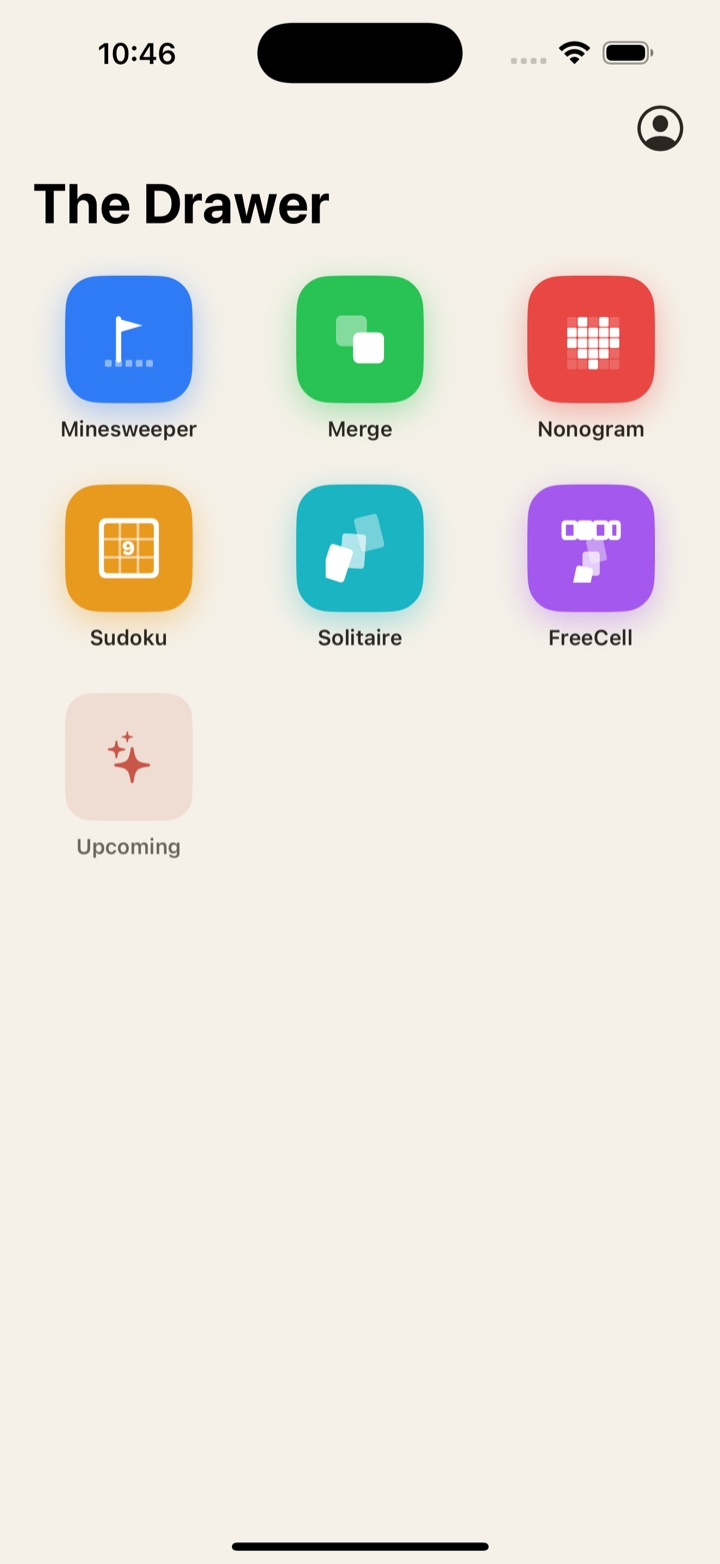
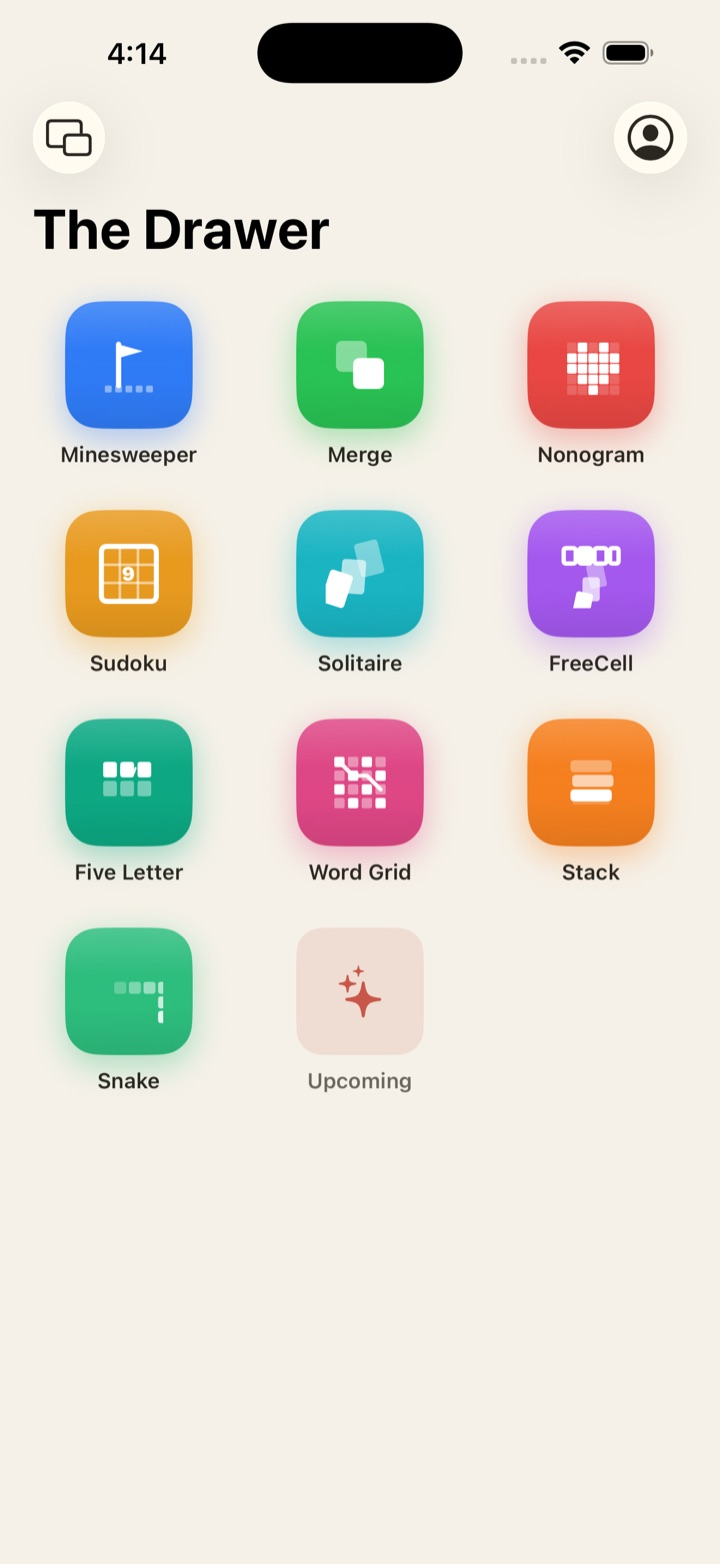
chore: retire no-ads-ever claims, new ten-game home screenshot
Ads stance shift: keep present-tense no-ads copy, drop ever/permanent/never framing across index, about FAQ (visible + JSON-LD), press tagline, llms.txt. New home screenshot captured on iPhone 17 Pro Max shows all ten games plus the Upcoming tile; capture convention (17 Pro Max, 1320x2868, ASC 6.9 slot) recorded in CLAUDE.md and AGENTS.md.

diff --git a/index.html b/index.html
@@ -95,7 +95,7 @@
             <h1 class="h1">
               Play games while<br />
               watching a video.<br />
-              No ads. Ever.
+              No ads.
             </h1>
 
             <p class="sub">
@@ -118,7 +118,7 @@
 
           <div class="hero-phone">
             <div class="phone-frame">
-              <img src="assets/images/screenshots/home-game-drawer.jpg" alt="GameDrawer home screen showing Minesweeper, Merge, Nonogram, Sudoku, FreeCell, and Solitaire on the Classic theme" />
+              <img src="assets/images/screenshots/home-game-drawer.jpg" alt="GameDrawer home screen showing ten game tiles - Minesweeper, Merge, Nonogram, Sudoku, Solitaire, FreeCell, Five Letter, Word Grid, Stack, and Snake - plus an Upcoming tile, on the Classic theme" />
             </div>
           </div>
         </div>
@@ -163,7 +163,7 @@
           </article>
 
           <article class="feature">
-            <p class="feature-num">04 / No ads, ever</p>
+            <p class="feature-num">04 / No ads</p>
             <span class="feature-icon" aria-hidden="true">
               <svg viewBox="0 0 24 24" fill="none" stroke="currentColor" stroke-width="1.75" stroke-linecap="round" stroke-linejoin="round">
                 <circle cx="12" cy="12" r="9" />
@@ -171,7 +171,7 @@
               </svg>
             </span>
             <h3>No coins. No energy. No popups.</h3>
-            <p>Permanent. No banner ads, no forced video ads, no fake currency, no subscription pestering, no required onboarding. Open the app, play.</p>
+            <p>No banner ads, no forced video ads, no fake currency, no subscription pestering, no required onboarding. Open the app, play.</p>
           </article>
 
           <article class="feature">
@@ -268,7 +268,7 @@
           </svg>
         </button>
         <div class="carousel-track">
-          <img src="assets/images/screenshots/home-game-drawer.jpg" alt="The Drawer home screen showing all six games on the Classic theme" loading="lazy" />
+          <img src="assets/images/screenshots/home-game-drawer.jpg" alt="The Drawer home screen showing all ten games plus an Upcoming tile on the Classic theme" loading="lazy" />
           <img src="assets/images/screenshots/gameplay-minesweeper-medium.jpg" alt="Minesweeper Medium mid-game with flagged mines and revealed numbers on the Classic theme" loading="lazy" />
           <img src="assets/images/screenshots/gameplay-merge.jpg" alt="Merge mid-game with score 1964 and tiles from 2 up to 256 on the Classic theme" loading="lazy" />
           <img src="assets/images/screenshots/gameplay-nonogram-large.jpg" alt="Nonogram 20 by 20 bunny puzzle mid-solve on the Classic theme" loading="lazy" />

diff --git a/about.html b/about.html
@@ -75,7 +75,7 @@
         "name": "Is GameDrawer really free?",
         "acceptedAnswer": {
           "@type": "Answer",
-          "text": "Yes. Version 1.0 is free with no in-app purchases, no subscriptions, and no ads. Future paid options would be one-time unlocks or theme packs - never ads or coins."
+          "text": "Yes. The app is free with no in-app purchases, no subscriptions, and no ads. Future paid options would be one-time unlocks or theme packs - not coins or energy systems."
         }
       },
       {
@@ -83,7 +83,7 @@
         "name": "Will you add ads later?",
         "acceptedAnswer": {
           "@type": "Answer",
-          "text": "No. No ads, no fake currency, no energy systems, and no aggressive subscriptions. That's a permanent constraint, not a launch promise."
+          "text": "There are no ads in GameDrawer today. What stays off the table: fake currency, energy systems, and aggressive subscriptions."
         }
       },
       {
@@ -216,10 +216,10 @@
       <h2>Frequently asked questions</h2>
 
       <h3>Is GameDrawer really free?</h3>
-      <p>Yes. The app is free with no in-app purchases, no subscriptions, and no ads. If a paid option ever lands, it would be a one-time purchase for the full game suite, paid theme packs, or a tip jar - <em>never</em> ads, coins, or aggressive subscriptions.</p>
+      <p>Yes. The app is free with no in-app purchases, no subscriptions, and no ads. If a paid option ever lands, it would be a one-time purchase for the full game suite, paid theme packs, or a tip jar - <em>never</em> coins or aggressive subscriptions.</p>
 
       <h3>Will you add ads later?</h3>
-      <p>No. That's a permanent constraint, not a launch promise.</p>
+      <p>There are no ads in GameDrawer today. What stays off the table: fake currency, energy systems, and aggressive subscriptions.</p>
 
       <h3>Do I need an account?</h3>
       <p>No. GameDrawer is local-first by default. Sign in with Apple is optional and only enables CloudKit sync across your own devices.</p>

diff --git a/press.html b/press.html
@@ -72,7 +72,7 @@
       <p>GameDrawer is the only multi-game puzzle suite that reflows its layouts for Picture-in-Picture - ten classic logic, word, and arcade games (Minesweeper, Merge, Nonogram, Sudoku, FreeCell, Solitaire, Five Letter, Word Grid, Stack, Snake), six PiP positions, zero ads.</p>
 
       <h2>Tagline</h2>
-      <p>Play games while watching a video. No ads. Ever.</p>
+      <p>Play games while watching a video. No ads.</p>
 
       <h2>Quick facts</h2>
       <ul>

diff --git a/CLAUDE.md b/CLAUDE.md
@@ -61,7 +61,7 @@ GameDrawer's visual identity echoes the shared Lauterstar DesignKit: warm cream 
 
 ## Image Assets
 
-iOS screenshots ship under 500KB. Anything over that target gets resized and converted: `sips --resampleWidth 720 -s format jpeg -s formatOptions 80 INPUT.png --out OUTPUT.jpg`. Originals stay in `assets/images/originals/` (gitignored). Carousel and below-the-fold use `loading="lazy"`.
+iOS screenshots are captured on the iPhone 17 Pro Max simulator (1320x2868, the App Store Connect 6.9" slot) so one capture serves both ASC and the site. They ship under 500KB. Anything over that target gets resized and converted: `sips --resampleWidth 720 -s format jpeg -s formatOptions 80 INPUT.png --out OUTPUT.jpg`. Originals stay in `assets/images/originals/` (gitignored). Carousel and below-the-fold use `loading="lazy"`.
 
 ## Release Log
 

diff --git a/AGENTS.md b/AGENTS.md
@@ -23,7 +23,7 @@ Part of the Lauterstar app ecosystem alongside DesignKit, HabitTracker, Stack, a
 
 ## Image Assets
 
-- iOS screenshots in `assets/images/screenshots/` use JPEG (q80, ~720px wide) when above ~500KB. Originals (uncompressed PNG) live in `assets/images/originals/` and are gitignored.
+- iOS screenshots are captured on the iPhone 17 Pro Max simulator (1320x2868, the ASC 6.9" slot). Files in `assets/images/screenshots/` use JPEG (q80, ~720px wide) when above ~500KB. Originals (uncompressed PNG) live in `assets/images/originals/` and are gitignored.
 - Target: every image under 500KB. Below-the-fold uses `loading="lazy"`.
 
 ## Design System
